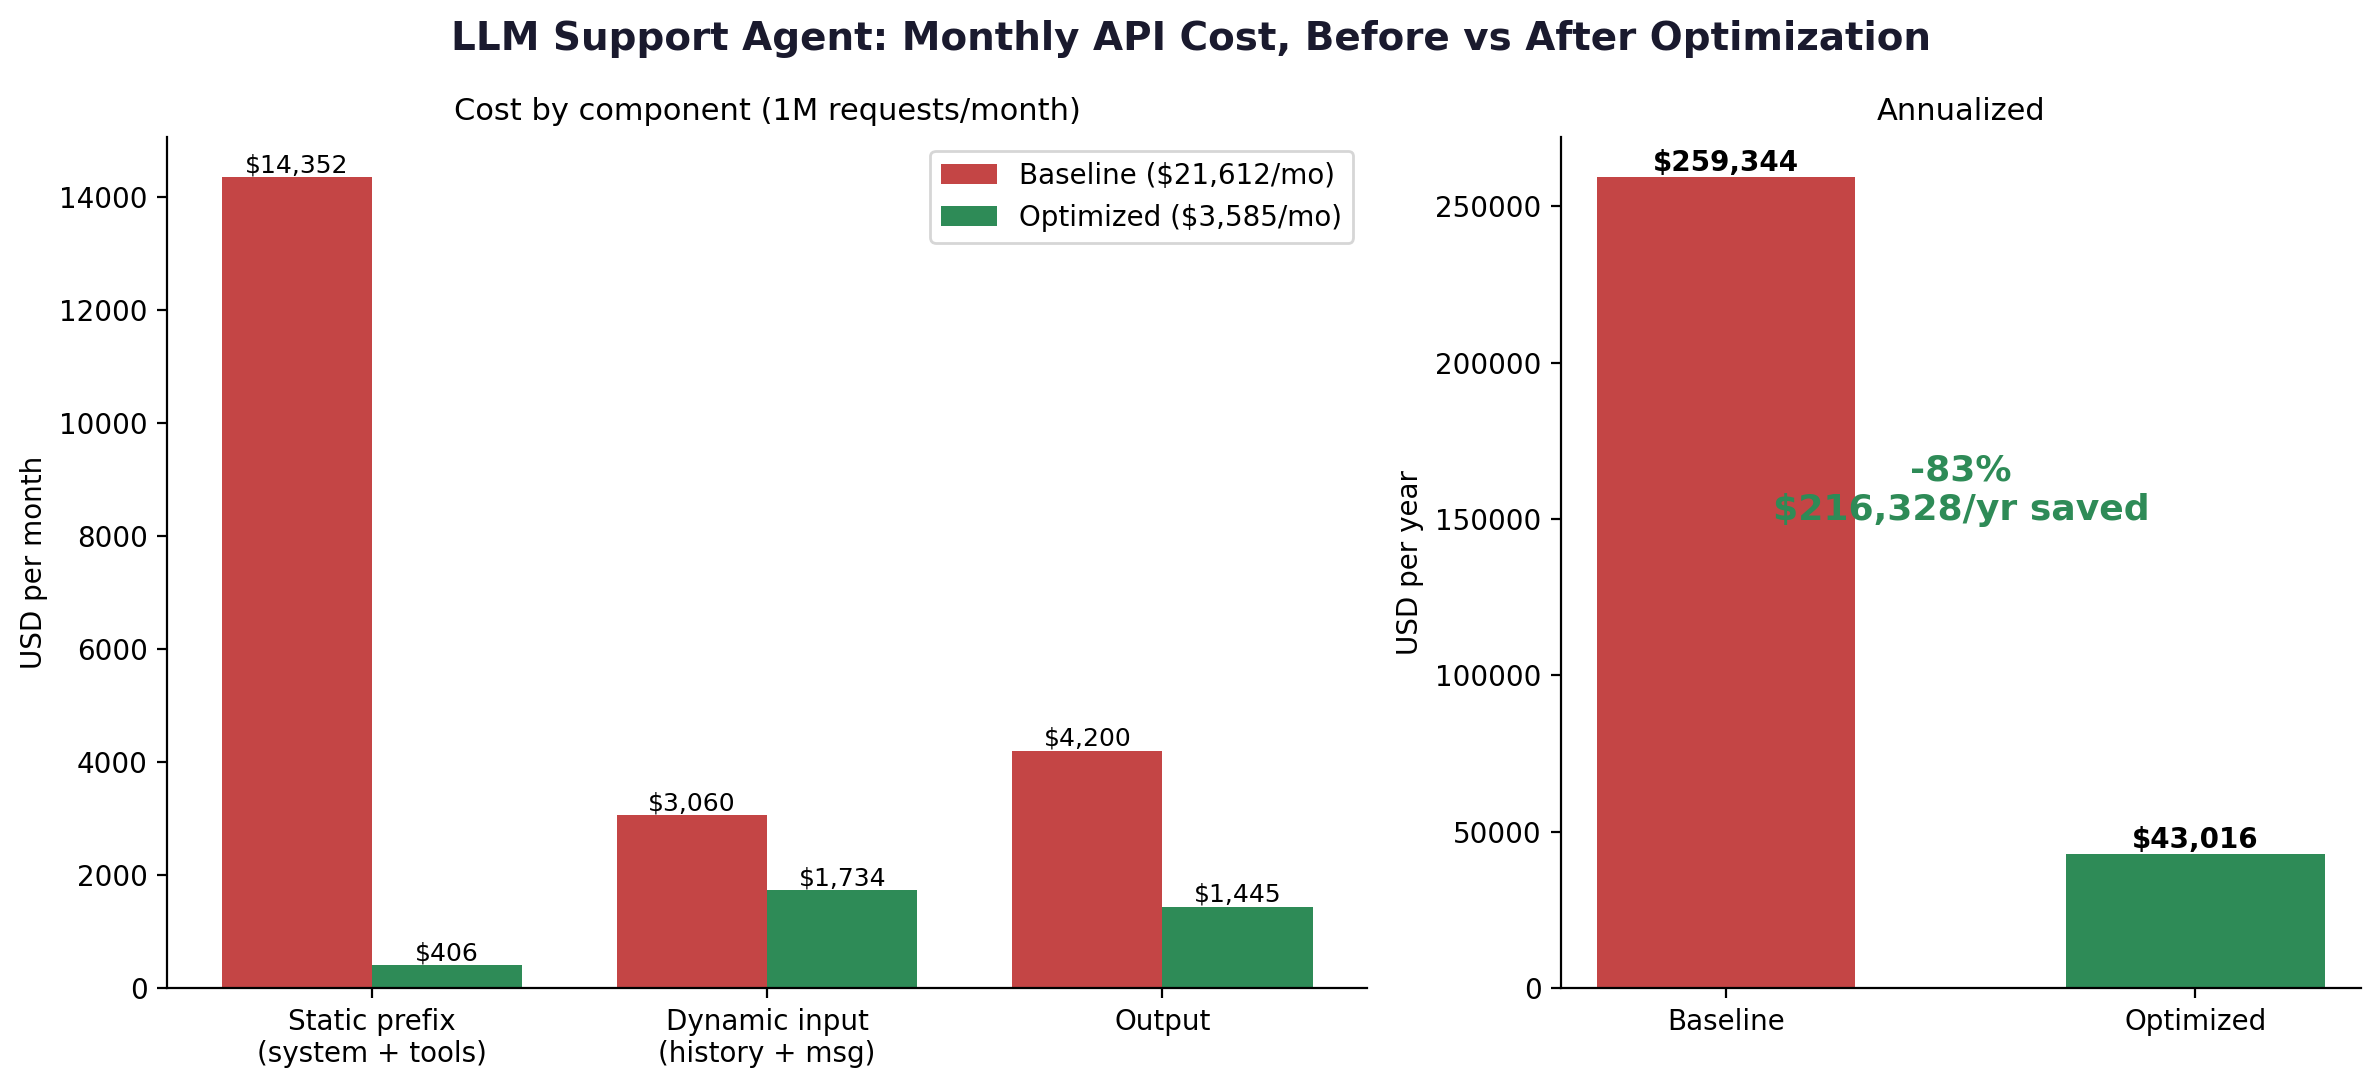
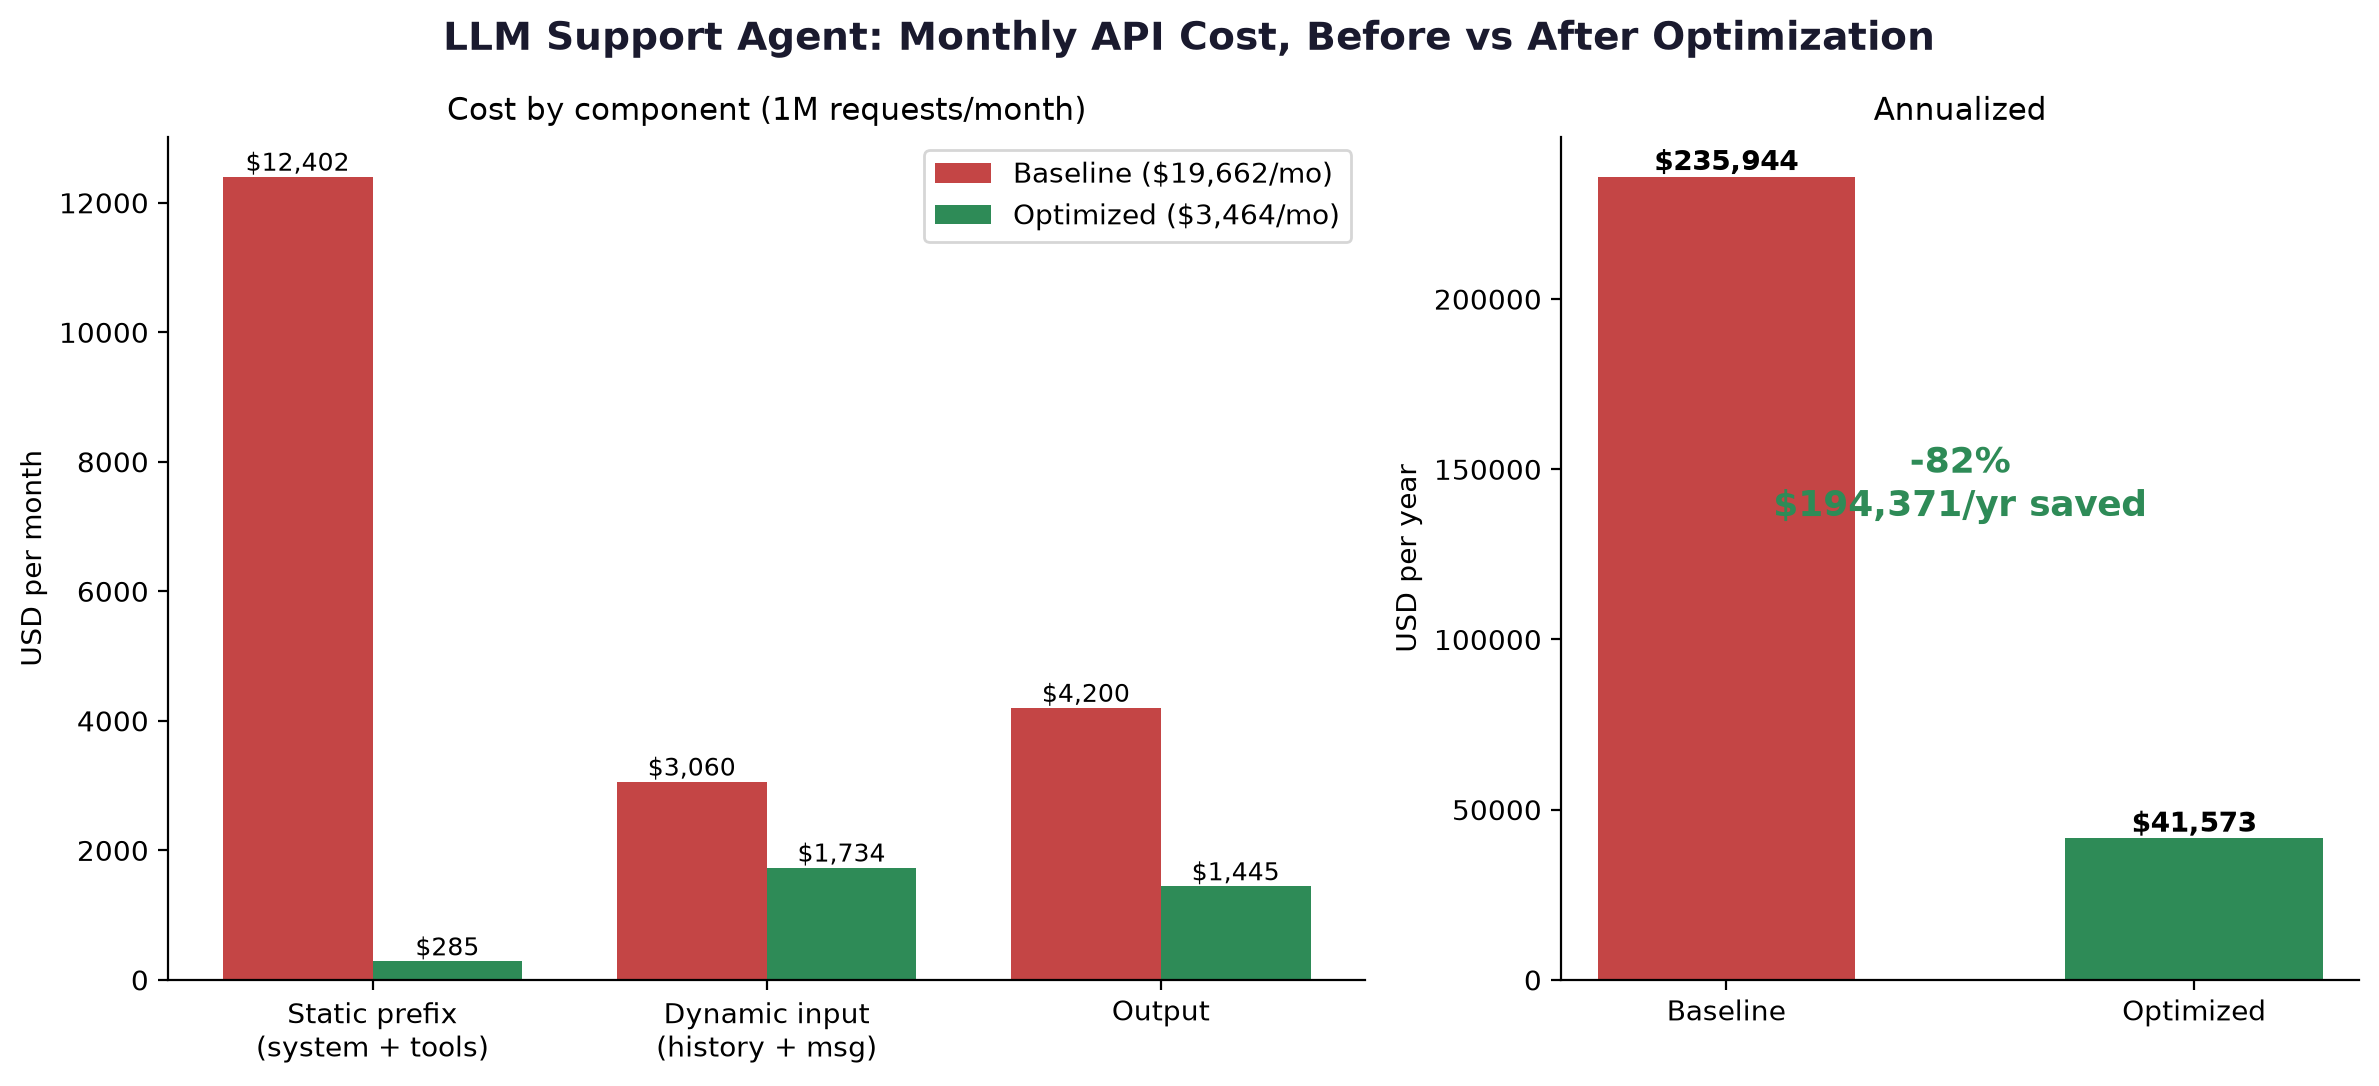
Run

diff --git a/output/audit_report.md b/output/audit_report.md
@@ -1,12 +1,12 @@
 # Token Cost Audit Report — Customer Support Agent
 
-**Result: 83% cost reduction. $21,612/mo → $3,585/mo ($216,328/yr saved at 1M requests/month).**
+**Result: 82% cost reduction. $19,662/mo → $3,464/mo ($194,371/yr saved at 1M requests/month).**
 
 ## Per-request input footprint
 
 | | Baseline | Optimized |
 |---|---|---|
-| Static prefix (system + tools) | 4,784 tok | 1,515 tok |
+| Static prefix (system + tools) | 4,134 tok | 1,066 tok |
 | Dynamic (history + user msg) | 1,020 tok | 1,020 tok |
 | Avg output | 280 tok | 170 tok |
 
@@ -14,21 +14,21 @@
 
 | Component | Baseline | Optimized | Delta |
 |---|---|---|---|
-| Static prefix input | $14,352 | $406 | -$13,946 |
+| Static prefix input | $12,402 | $285 | -$12,117 |
 | Dynamic input | $3,060 | $1,734 | -$1,326 |
 | Output | $4,200 | $1,445 | -$2,755 |
-| **Total** | **$21,612** | **$3,585** | **-$18,027 (83%)** |
+| **Total** | **$19,662** | **$3,464** | **-$16,198 (82%)** |
 
 ## Optimization levers applied
 
 ### 1. System prompt compression
-- Baseline: 1,443 tokens
-- Optimized: 384 tokens (-73%)
+- Baseline: 1,402 tokens
+- Optimized: 387 tokens (-72%)
 - Prose policies rewritten as tables and terse rules. No information removed; filler, restatement, and throat-clearing removed. Paid on every request.
 
 ### 2. Tool schema trimming
-- Baseline: 3,341 tokens
-- Optimized: 1,131 tokens (-66%)
+- Baseline: 2,732 tokens
+- Optimized: 679 tokens (-75%)
 - Descriptions reduced to what/when. Policy details (refund limits, return windows) stated once in the system prompt instead of repeated per tool.
 
 ### 3. Prompt caching